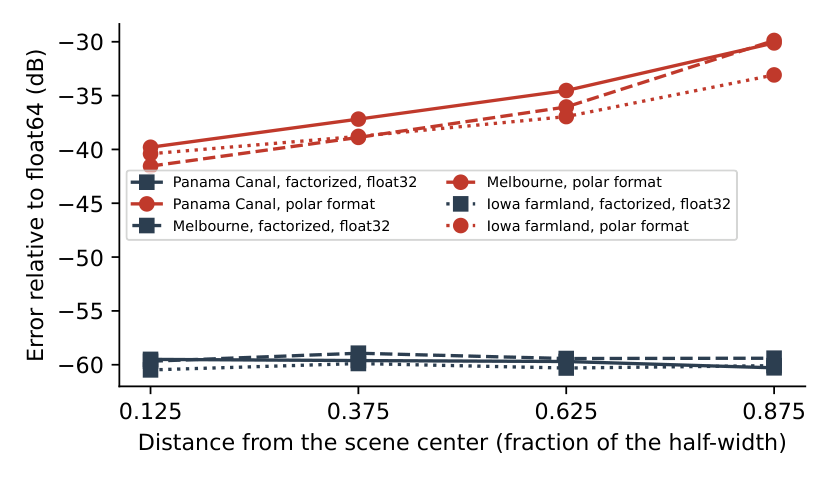
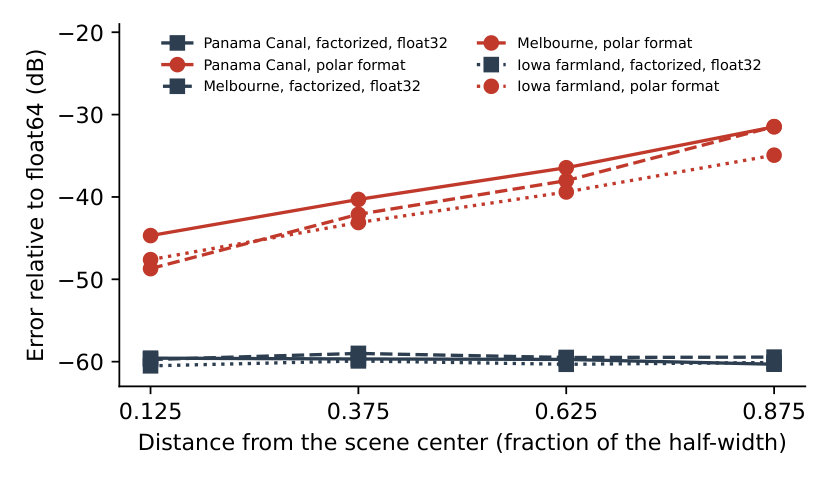
Docs: the 0.3.1 release records (polar format on every device, the teaser and the rings figure), known issues, Pillow's size limit for large quick looks

diff --git a/docs/performance.md b/docs/performance.md
@@ -15,13 +15,13 @@ The Umbra Panama image ([real-data.md](real-data.md#umbra-spotlight)) at float32
 
 | Device | Dollars per hour | Seconds per image | Dollars per 1000 images |
 |---|---|---|---|
-| TPU v6e (three-pass) | 2.70 | 2.9 | 1.56 |
-| TPU v5e (three-pass) | 1.20 | 5.0 | 1.31 |
-| L4 (float32) | 0.707 | 2.8 | 0.57 |
-| L4 (float16 throughout, float32 accumulation) | 0.707 | 2.5 | 0.49 |
-| A100 (float32) | 5.02 | 1.2 | 1.65 |
+| TPU v6e (three-pass) | 2.70 | 2.9 | 1.55 |
+| TPU v5e (three-pass) | 1.20 | 5.1 | 1.32 |
+| L4 (float32) | 0.707 | 3.0 | 0.59 |
+| L4 (float16 throughout, float32 accumulation) | 0.707 | 2.5 | 0.51 |
+| A100 (float32) | 5.02 | 1.2 | 1.63 |
 | H100 (float32) | 10.97 | 0.6 | 1.84 |
-| c4d-highmem-16 | 0.964 | 11.2 | 3.01 |
+| c4d-highmem-16 | 0.964 | 11.3 | 3.02 |
 
 Cost is the hourly price divided by the throughput of back-to-back images (on the TPUs the next history is staged
 while one forms). The H100 forms the image fastest; the L4, whose hourly price is about a quarter of the v6e's and
@@ -30,14 +30,27 @@ on the Melbourne and Iowa collections as well.
 
 ![Cost per 1000 Panama images against error for every FastSAR configuration and the open-source implementations](images/teaser.png)
 
-Single-pass on the TPUs takes 2.6 s (v6e) and 3.5 s (v5e) at -46.2 dB, $1.19 and $0.82 per 1000 images. Float16
-on the L4 and single-pass on the TPUs lower each device's cost by 13 to 37%. Polar format takes 1.4 s on the L4
-($0.28 per 1000, the lowest cost of any configuration) and 9.0 s on the c4d-highmem-16, at -32.1 dB. On the TPUs its resampling steps are gathers on the vector unit and take 103 s (v5e) and 110 s (v6e) per image. The L4 draws 0.05 kWh per 1000 float32 images (mean
-`nvidia-smi` power, host excluded).
+Single-pass on the TPUs takes 2.5 s (v6e) and 3.6 s (v5e) at -46.2 dB, $1.19 and $0.83 per 1000 images. Float16
+on the L4 and single-pass on the TPUs lower each device's cost by 15 to 37%. Polar format takes 0.73 s on the L4
+($0.14 per 1000, the lowest cost of any configuration), 0.35 s on the A100, 0.18 s on the H100, 1.9 s on the
+c4d-highmem-16, 1.5 s on the v6e and 2.2 s on the v5e, at -33.7 dB (0.3.0: 1.4, 0.93, 0.56, 9.0, 110 and 103 s at
+-32.1 dB). On a TPU VM the host's own cores form it faster than the TPU: about 1.3 s on the v6e's 44 vCPUs and 1.9 s
+on the v5e's 24, measured outside the records; `form_image(..., algorithm='pfa', backend='cpu')` takes them, while
+`backend='auto'` takes the TPU. The L4 draws 0.05 kWh per 1000 float32 images (mean `nvidia-smi` power, host
+excluded).
 
-These are the release records of the study (FastSAR 0.3.0; public API only, the CPU kernels compiled on each
-instance). Every image is bitwise that of the 0.2.0 records: 81 images of the three Umbra collections on the six
-devices and 75 region images of the five Capella collections on the five devices that form them. On the Umbra
+These are the release records of the study (FastSAR 0.3.1; public API only, the CPU kernels compiled on each
+instance). 0.3.1 re-recorded the three Umbra collections on the six devices; every image is bitwise that of the
+0.3.0 records except the polar format's, which forms by new stages. The median change in time of the unchanged
+configurations against 0.3.0 is +0.6% on the L4, -0.1% on the A100, +0.1% on the H100, +0.6% on the c4d-highmem-16,
++2.0% on the v5e and -0.5% on the v6e; the largest increases are 6.8, 0.2, 0.7, 2.2, 3.5 and 0.2%. The 6.8% is the
+L4's float32 Panama image (3.01 against 2.81 s); on a second L4 instance, alternating the two versions, 0.3.0
+took 2.84 and 2.92 s and 0.3.1 2.92 and 2.91 s, so the record instance is the slower machine. The Capella
+collections were not re-recorded: their products are those of 0.3.0, bit for bit, and their times are the 0.3.0
+records.
+
+The 0.3.0 records against 0.2.0: every image is bitwise that of the 0.2.0 records, 81 images of the three Umbra
+collections on the six devices and 75 region images of the five Capella collections on the five devices that form them. On the Umbra
 collections the median change in time against 0.2.0 is -0.5% on the L4, 0.0% on the A100, +0.1% on the H100,
 +0.6% on the c4d-highmem-16, -0.1% on the v5e and +0.3% on the v6e; the largest increases are 2.6, 6.2, 3.2, 1.2,
 0.1 and 2.3%. On the Capella collections the median is -0.1, -0.4, +0.1, -1.3 and 0.0% on the L4, A100, H100,
@@ -45,8 +58,8 @@ c4d-highmem-16 and v6e, and the largest increases are 1.7, 1.6, 2.2, 0.1 and 10.
 format on Melbourne (single call, 1.01 against 0.95 s). On a second A100 instance, run alternately, 0.2.0 took 0.98
 and 0.97 s and 0.3.0 0.98 and 0.96 s, so the record instance is the outlier, as for polar format on the A100 at
 0.2.0. On the v6e the 2024 Capella spotlight took 6.2% longer on the record VM and 0.4% longer on a second one.
-The 2025 Capella stripmap took 164.9 s on the record VM and 164.1 s on a second one, against
-149.2 s in the 0.2.0 records; on a third VM, alternating the two versions, 0.2.0 took 163.8 and 166.1 s and 0.3.0
+The 2025 Capella stripmap took 164.9 s on the record VM and 164.1 s on a second one, against 149.2 s in the 0.2.0
+records; on a third VM, alternating the two versions, 0.2.0 took 163.8 and 166.1 s and 0.3.0
 166.1 and 164.4 s, so the VM of the 0.2.0 record was the faster machine. The L4 record is the first of two fresh
 instances, which agreed within 2.9% on every configuration with bitwise identical images (Panama float32 single
 call 2.81 and 2.86 s; the two instances of the 0.2.0 records had 2.91 and 2.84 s).
@@ -299,7 +312,7 @@ with `-march=haswell` and run on the same machine, the factorized former takes 4
 
 ## Kernel times and stage profile
 
-On the c4d-highmem-16 the float32 Panama image takes 221 s as a single JAX program (`backend='jax'`) and 11.2 s
+On the c4d-highmem-16 the float32 Panama image takes 221 s as a single JAX program (`backend='jax'`) and 11.3 s
 with the C++ kernels. On the accelerators, in development and on the device, the JAX program took 4.6, 9.3 and
 13.7 s (v6e, v5e, L4) and the kernels 2.4, 4.6 and 3.5 s. In the profiled builds every kernel stage ran within 1.0
 to 2.5 times a lower bound set by its limiting hardware unit, measured by microbenchmarks on the same device.
@@ -329,32 +342,32 @@ The automatic tile choice takes 16 pixels on ARM. macOS builds the kernels with 
 
 On the Umbra Panama collection (15,186 pulses by 14,399 samples, 12,207 by 8,808 pixels) a c4a-highmem-16
 (Google Axion, Neoverse V2, 16 cores) forms the factorized float32 image in 20.3 s with these kernels, from 43.7 s
-with the 16-lane vectors of 0.1.1 (the c4d-highmem-16 of record: 11.2 s). Record: `results/fastsar/logs/arm2` in
+with the 16-lane vectors of 0.1.1 (the c4d-highmem-16 of record: 11.3 s). Record: `results/fastsar/logs/arm2` in
 sar-accel-study.
 
 ## Exact backprojection
 
 `ExactFormer` on the Umbra Panama collection (12,207 by 8,808 pixels, 15,186 pulses), host memory to host memory,
-warm former, against the float64 reference (release 0.3.0 records; 0.1.4's GPU times in brackets):
+warm former, against the float64 reference (release 0.3.1 records; 0.1.4's GPU times in brackets):
 
 | Device | Cubic, `upsample=8` (default) | Linear, `upsample=8` |
 |---|---|---|
-| L4 (g2-standard-4) | 16.9 s (23.9 s), -67.4 dB | 10.8 s (19.4 s), -56.8 dB |
+| L4 (g2-standard-4) | 16.8 s (23.9 s), -67.4 dB | 10.8 s (19.4 s), -56.8 dB |
 | A100 80GB (a2-ultragpu-1g) | 8.28 s (9.3 s), -67.4 dB | 5.17 s (6.9 s), -56.8 dB |
-| H100 80GB (a3-highgpu-1g) | 4.50 s (5.3 s), -67.4 dB | 2.89 s (4.2 s), -56.8 dB |
-| c4d-highmem-16 | 369 s, -67.4 dB | 227 s, -56.9 dB |
+| H100 80GB (a3-highgpu-1g) | 4.53 s (5.3 s), -67.4 dB | 2.91 s (4.2 s), -56.8 dB |
+| c4d-highmem-16 | 374 s, -67.4 dB | 232 s, -56.9 dB |
 
 At 0.1.7 the cuda former keeps its cropped range profiles in float16 for linear interpolation on grids of 2^25
 pixels or more (`profiles='auto'`; float32 below, and for cubic), which took the L4's linear time from 12.1 to 10.9 s
-at -56.8 against -56.9 dB; the cubic path is unchanged. The exact images of the 0.3.0 records are bitwise those of
-0.2.0, at 0.99 to 1.01 times its times. The exact kernels did not change between 0.1.5 and 0.1.6;
+at -56.8 against -56.9 dB; the cubic path is unchanged. The exact images of the 0.3.1 records are bitwise those of
+0.3.0, at 0.99 to 1.02 times its times. The exact kernels did not change between 0.1.5 and 0.1.6;
 the two L4 instances of the 0.1.6 records ran them 3 to 6% slower than the 0.1.5 record instance (16.3 s cubic,
 11.7 s linear). The 0.1.5 images are bitwise those of 0.1.4
 on all three GPUs and the three Umbra scenes. Two changes made the
 difference: the CUDA kernel's thread blocks take their tiles along the grid axis closer to constant range, so that
 the blocks resident together read the same range bins from the L2 cache instead of the image's whole range window,
 and the image comes back through pinned memory (0.25 s or more for the 860 MB image through pageable memory).
-Records: the bucket prefix `v13` of sar-accel-study (`cloud/r030/queue_gpu_v030.sh`).
+Records: the bucket prefix `v14` of sar-accel-study (`cloud/r031/queue_gpu_v031.sh`).
 
 The cubic error is the reference's own: against a float64 backprojection oversampled 64 times, the reference is
 -67.3 to -68.8 dB on the lock, port and ship regions and the cubic image -77.5 to -81.7 dB (the float32 factorized

diff --git a/CHANGELOG.md b/CHANGELOG.md
@@ -5,6 +5,10 @@ was published on PyPI.
 
 ## [0.3.1] - 2026-11-15
 
+The README and the docs carry the 0.3.1 release records: the three Umbra collections on the six devices,
+re-recorded at the tag (the Capella records are those of 0.3.0, whose products this release leaves bit for bit
+unchanged).
+
 ### Added
 
 - `fastsar.quicklook(cphd, output=None, *, size=2048, resolution=None, correct=True, remap='nrl', backend='auto',
@@ -50,10 +54,12 @@ was published on PyPI.
 
 ### Changed
 
-- `form_image(algorithm='pfa')` forms by the quick look's stages on every backend: the image of the JAX program
-  to its accuracy and at its scale, in a tenth of the time or less (the Panama image, 12,207 by 8,808 pixels from
-  15,186 pulses of 14,399 samples: 1.2 s on 16 CPU threads, 0.3 s on a GPU and 1.4 s on a TPU v6e, where the
-  program takes 9.6 s on the CPU and 110 s on the v6e). Over whole images the stages are the closer of the two to exact backprojection
+- `form_image(algorithm='pfa')` forms by the quick look's stages on every backend, 2 to 74 times faster
+  than 0.3.0 and closer to exact backprojection. The Panama image (12,207 by 8,808 pixels from 15,186 pulses of
+  14,399 samples), host memory to host memory, in the release records: 1.9 s on a c4d-highmem-16 (0.3.0: 9.0 s),
+  0.73 s on an L4 (1.43 s), 0.35 s on an A100 (0.93 s), 0.18 s on an H100 (0.56 s), 1.5 s on a TPU v6e (110 s) and
+  2.2 s on a v5e (103 s); its error against the float64 reference falls from -32.1 to -33.7 dB on every device, and
+  its 5 by 5 coherence at the 0.1 percentile rises from 0.986 to 0.995
   ([docs/performance.md](docs/performance.md#polar-format-by-stages)). On a ground-plane grid the stages' image
   has backprojection's phase, which the program's does not; the amplitudes agree. A collection that lacks pulses
   of its evenly timed sequence is formed with each pulse at its place. `backend` now chooses where polar format
@@ -84,13 +90,18 @@ was published on PyPI.
 - Images and quick looks come back from a GPU into page-locked blocks that the next one takes when its size is
   within a factor of two, instead of locking memory of their own size each time (about a second per gigabyte).
 
-### Fixed
+### Known issues
 
-- The full-resolution quick look of a ground grid under a twisted slant plane (a sheared raster) on a TPU. Each
-  block of the raster's rows was cut out of the range stage's output by a gather that laid the whole array out
-  anew on the device for every block, 22 ms a block of a 4.4 GB array. A block is now one slice of each piece of
-  the array, the pulses of a piece written from a common first row. On a TPU v6e the 13,216 by 13,216 Capella
-  picture takes 6.0 s instead of 15.6 s, its cuts 0.3 s instead of 9.0 s (the host's 44 cores take 4.8 s).
+- On a machine whose JAX is built for CUDA, a process that starts JAX on the GPU and then makes the CPU JAX's
+  default device cannot run 0.3.0's polar-format program (`FASTSAR_PFA_PROGRAM=jax`): its CUDA gather is handed
+  arrays that lie on the CPU, and CuPy raises a `TypeError`. `tests/test_pfa_paths.py::test_program_choice` fails
+  that way on GPU instances when it runs after `tests/test_api.py`. The default polar format is not affected.
+- `tests/test_quicklook.py::test_cuda_gives_the_device_back` fails in the full suite on an Nvidia L4, A100 and
+  H100 (with its own module it passes on an L4 and on an RTX PRO 6000). The test limits CuPy's memory
+  pool to a few megabytes, sized from cuFFT's work areas as it measures them: on the L4 and the H100 a formation
+  then runs out of the pool (by 0.5 MB on the L4), and on the A100 the competing transform the test sets up needs
+  no work area, so its premise does not hold. Formation at ordinary device memory is not concerned: every record
+  image of this release formed on these devices.
 
 ## [0.3.0] - 2026-11-14
 

diff --git a/docs/comparison.md b/docs/comparison.md
@@ -20,7 +20,7 @@ min against 369 s measured.
 | ISCE3 `backproject`, 16 threads | -31.5 to -54.9 | 4.8 h (est.) |
 | GRDL, factorized | no image | 77.5 s |
 | FastSAR, exact backprojection, cubic, 8x | -77.5 to -81.7 (truth) | 369 s |
-| FastSAR, factorized, float32 | -57.2 to -62.6 (truth) | 11.2 s |
+| FastSAR, factorized, float32 | -57.2 to -62.6 (truth) | 11.3 s |
 
 | GPU (Nvidia L4) | Error (dB) | Time |
 |---|---|---|
@@ -31,7 +31,7 @@ min against 369 s measured.
 | MatX `sar_bp`, `taylor_fast`, float64 pixel coordinates, 8x | -54.9 to -58.6 | 11.6 s |
 | FastSAR, exact backprojection, linear, 8x | -54.9 to -58.7 | 10.8 s |
 | FastSAR, exact backprojection, cubic, 8x | -77.5 to -81.7 (truth) | 16.9 s |
-| FastSAR, factorized, float32 | -57.1 to -62.6 (truth) | 2.8 s |
+| FastSAR, factorized, float32 | -57.1 to -62.6 (truth) | 3.0 s |
 | FastSAR, factorized, float16 throughout | -55.6 to -61.6 (truth) | 2.5 s |
 
 - RITSAR: a `linspace` range axis too coarse by one part in N_fft - 1, and a frequency axis that assumes an even
@@ -58,7 +58,7 @@ from day to day. The factorized algorithm cuts the time by a further factor of 6
 
 On the same CPU, the AFRL toolbox's `pfa_mem` (Octave) forms a polar-format image in 44.5 s and GRDL's polar format in 24.5 s.
 Neither corrects the planar-wavefront displacement. Their log-amplitude correlations with the reference are 0.80 to
-0.89 and 0.78 to 0.93, against 0.996 to 0.999 for FastSAR's corrected polar format (9.0 s on the CPU, 1.4 s on the L4).
+0.89 and 0.78 to 0.93, against 0.9995 to 0.9999 for FastSAR's corrected polar format (1.9 s on the CPU, 0.73 s on the L4).
 
 Scripts and records: [sar-accel-study](https://github.com/saulpingerman/sar-accel-study), directories `oss` and
 `results/comparison`.

diff --git a/docs/precision.md b/docs/precision.md
@@ -26,15 +26,15 @@ of the difference over the whole image.
 | TPU v5e, three-pass | -57.9 |
 | TPU v6e, three-pass | -57.8 |
 | TPU v5e and v6e, single-pass | -46.2 |
-| Polar format with the displacement correction (all devices) | -32.1 |
+| Polar format with the displacement correction (all devices) | -33.7 |
 
 - Float32-class images (float32 on CPU and L4, three-pass on TPU) leave the amplitude visually unchanged; their 5
   by 5 coherence with the reference exceeds 0.999 even at its 0.1 percentile. The TPU kernels compute the last
   level's geometry in float32, the probable cause of their error being up to 2.2 dB larger.
 - The single-pass TPU setting adds 12 dB. The amplitude is unchanged, but the phase deviates by up to 106 degrees beside
   bright returns (99th percentile 1.1 degrees). Use three-pass for interferometry.
-- Polar format shows striped coherence below 0.99; its residual grows from -40 dB at the scene center to -30 dB in
-  the outer quarter ([algorithms.md](algorithms.md#polar-format)).
+- Polar format keeps its 5 by 5 coherence with the reference at 0.995 or more at the 0.1 percentile, with coherence
+  loss beside bright returns; its residual grows from -45 dB at the scene center to -31 dB in the outer quarter ([algorithms.md](algorithms.md#polar-format)).
 - The reference limits the measured error of exact backprojection with its default cubic interpolation at 8 times:
   against a float64 backprojection oversampled 64 times on the lock, port and ship regions, the reference is -67.3
   to -68.8 dB, the cubic image -77.5 to -81.7 dB and the float32 factorized images -57.1 to -62.6 dB, a margin of 19 to 21 dB for

diff --git a/README.md b/README.md
@@ -11,10 +11,10 @@ map GeoTIFFs and SICD and SIDD output.
 
 ![FastSAR image of the Panama Canal's Pacific entrance from an Umbra spotlight collection](https://raw.githubusercontent.com/saulpingerman/FastSAR/main/docs/images/hero_panama.jpg)
 
-*Panama Canal, Pacific entrance (Umbra open data, 2023-07-18): 12,207 by 8,808 pixels in 2.8 s on an Nvidia L4
+*Panama Canal, Pacific entrance (Umbra open data, 2023-07-18): 12,207 by 8,808 pixels in 3.0 s on an Nvidia L4
 (warm former, transfers included; float32, -59.9 dB against the float64 reference of
 [precision.md](https://github.com/saulpingerman/FastSAR/blob/main/docs/precision.md)), downsampled. A
-c4d-highmem-16 CPU instance (16 vCPUs, 8 cores) takes 11.2 s. The fastest open-source exact backprojection that forms this
+c4d-highmem-16 CPU instance (16 vCPUs, 8 cores) takes 11.3 s. The fastest open-source exact backprojection that forms this
 collection, the `sar_bp` example of NVIDIA's MatX, takes 12.5 s on the L4 as shipped and 11.6 s with float64 pixel
 coordinates, against 10.8 s for FastSAR's exact backprojection at the same accuracy; on the CPU, ISCE3 would take an
 estimated 4.8 h.*

diff --git a/docs/processing-chain.md b/docs/processing-chain.md
@@ -131,7 +131,9 @@ At a resolution finer than about a meter over several kilometers polar format de
 picture; the product estimates by how much (`corner_error`), a note says so, and `form_cphd` is the tool for that
 image. `looks=n` averages the power of n by n images of the same pixels, formed from sub-apertures and sub-bands
 side by side, for less speckle at n by n times the bytes and the formation time. `output` is a `.png` file,
-written with the standard library alone, or a `.nitf` file, the complex image as a ground-plane SICD.
+written with the standard library alone, or a `.nitf` file, the complex image as a ground-plane SICD. A
+full-resolution picture of a large spotlight can pass 179 megapixels, the size above which Pillow refuses to open
+an image unless `PIL.Image.MAX_IMAGE_PIXELS` is raised (or set to `None`); `fastsar.quick.read_png` reads any size.
 
 Every backend runs polar format's stages written for it: `'cpu'` in C++ on all cores, `'cuda'` in CUDA kernels
 and cuFFT, `'jax'` and `'tpu'` in float32 planes on JAX's device. The device paths work in blocks sized from the

diff --git a/docs/algorithms.md b/docs/algorithms.md
@@ -86,7 +86,7 @@ sight in the image plane (the vendors' image grids do, whatever the squint of th
 degrades quickly (15 degrees on a squinted Umbra spotlight gave -5 dB against backprojection where the aligned grid
 gave -27 dB) and FastSAR warns beyond 2 degrees. Backprojection takes any grid. The planar-wavefront assumption displaces scatterers away from the center: on Panama by up to 18 pixels in
 azimuth and 12 in range at the corners. FastSAR removes the displacement predicted from the geometry by a final
-resampling. The error is then -32.1 dB on Panama (Melbourne -33.5 dB, Iowa -35.4 dB). It grows by about 10 dB from
+resampling. The error is then -33.7 dB on Panama (Melbourne -35.3 dB, Iowa -37.6 dB). It grows by 13 to 17 dB from
 the inner to the outer ring around the scene center; the factorized image's error stays level:
 
 ![Error of polar format and factorized backprojection in four rings around the scene center](images/rings.png)
